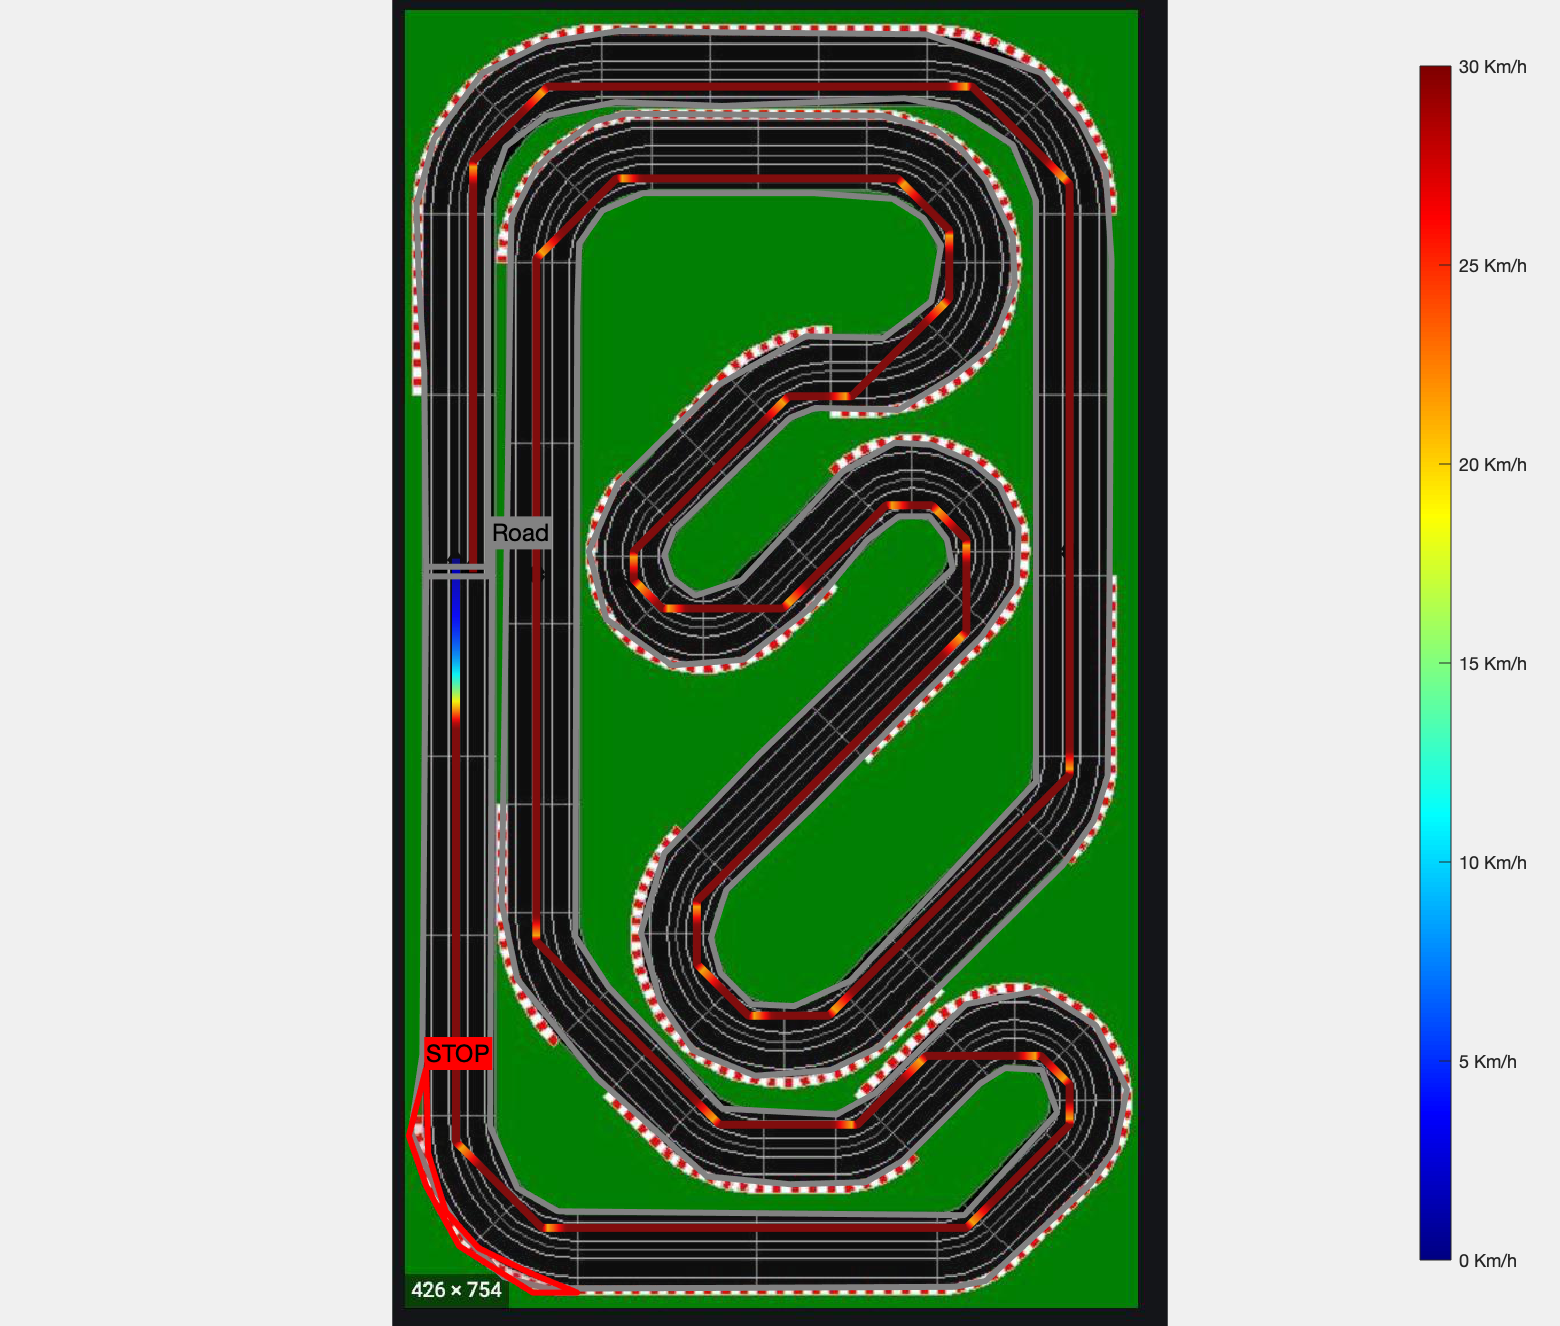
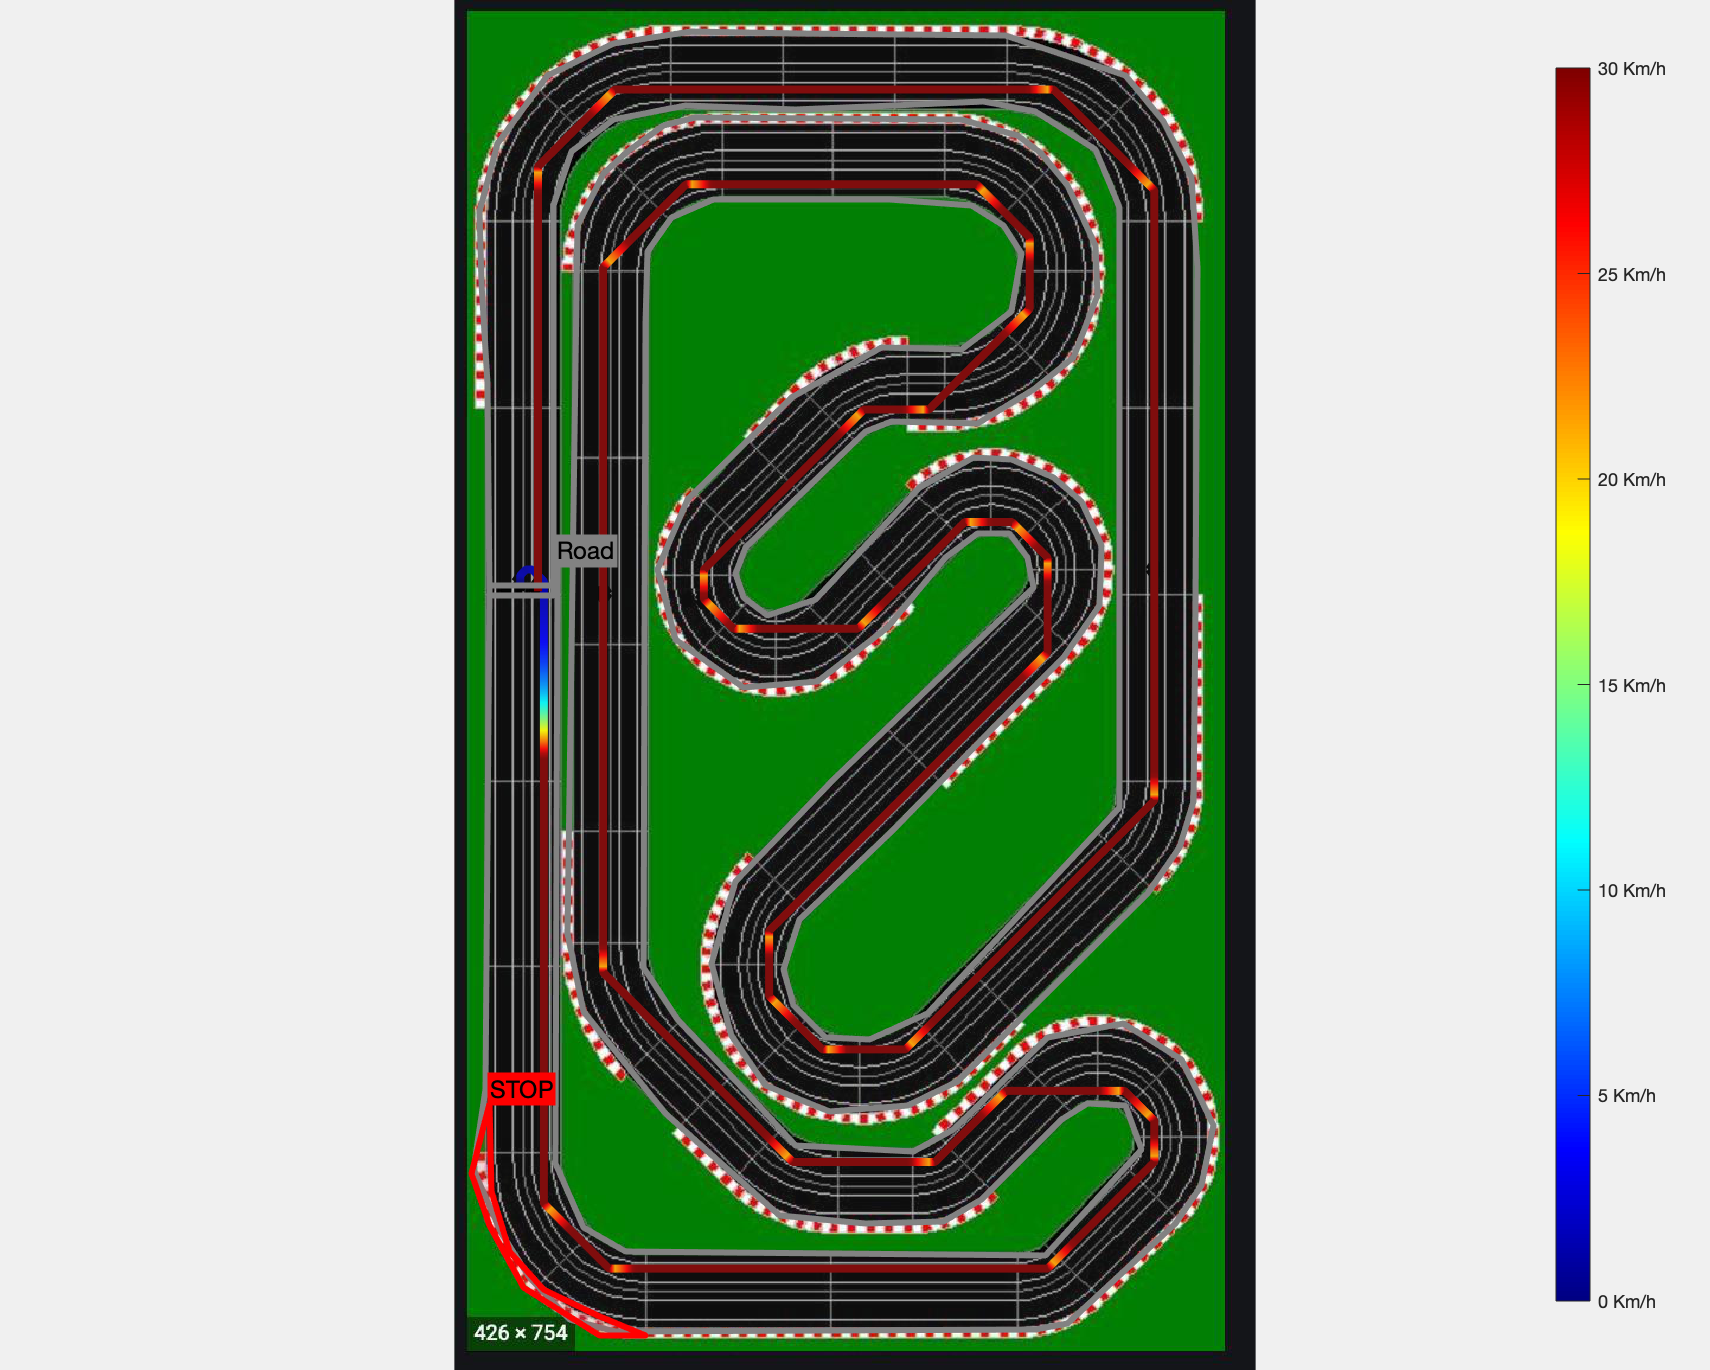
atencao ao angulo de chegada

diff --git a/src/path_planning.m b/src/path_planning.m
@@ -1,4 +1,4 @@
-function [sampled_path, checkpoints] = path_planning(path_points)
+function [sampled_path, checkpoints] = path_planning(path_points, path_orientation)
 % This function is responsabile to planning a path taking in account the
 % points {start, middle, stop}. It uses an dynamical weight dijkstra
 % algorithm. This version migth computes two different path in order to
@@ -12,13 +12,17 @@ function [sampled_path, checkpoints] = path_planning(path_points)
         m_occupancy m_safe  ...
         node_location heap directions ...
         debug_mode file_path
+    global path_points path_orientation
     
     % to be returned
     sampled_path = [];
     checkpoints = [];
     
     % a path need 2 points
-    if(size(path_points,1)<2); return; end
+    if(size(path_points,1)<2 && length(path_orientations)==2 )
+        disp("2 points with 2D coordinates and orientation are needed ")
+        return;
+    end
   
     if(isempty(occupancy_matrix)); load(string(file_path+"occupancy_matrix.mat"), 'occupancy_matrix'); end
     if(isempty(map_information)); map_information=load(string(file_path+"mapInformation.mat")); end
@@ -58,12 +62,14 @@ function [sampled_path, checkpoints] = path_planning(path_points)
 
     %% DYNAMIC DIJKSTRA - Path planning
     %https://media.neliti.com/media/publications/165891-EN-shortest-path-with-dynamic-weight-implem.pdf
-
+    
+    orientation = round_thetas(path_orientation*0+[90;0]); % initial and final orientation -- path_orientation
+    
     sub_path = [];  % last confirmed path but it migth not occured if the stop point has to be deleted 
     path_data = []; % accumulated path with start and stop points confirmed
     prev_node=[];   % information about the start point 
     prev_prev_node=[];  % information about the start point before
-    i=1;
+    i=4;
     valid_points = 1:size(points_grid,1);
     wb=waitbar(0,"Planning The Best Path");
     wb.Position(1)= wb.Position(1)-wb.Position(3);
@@ -73,9 +79,18 @@ function [sampled_path, checkpoints] = path_planning(path_points)
         idx_start = yx_2_idx_graph(start(2),start(1));
         stop = points_grid(valid_points(i+1),:);
         idx_stop = yx_2_idx_graph(stop(2),stop(1));
+        
+        % define the orientation for final point at the last path
+        orientation_path = orientation;  % auxilar vect of orentations (for each sub path)
+        if(i~=(length(valid_points)-1))
+            orientation_path(2) = "";
+        end
+        if(i~=1)
+            orientation_path(1) = "";
+        end
 
-        wb=waitbar((i-1)/length(valid_points),wb,"Planning sub Path "+num2str(i));
-        dijkstra(idx_start,idx_stop,prev_node,"time");
+        wb=waitbar((i-1)/(length(valid_points)-1),wb,"Planning sub Path "+num2str(i));
+        dijkstra(idx_start,idx_stop,prev_node,"time",orientation_path);
 
         if(isempty(node_location(idx_stop).cost))
             valid_points(i)=[];
@@ -202,7 +217,7 @@ function inspect_plots(sampled_path, run_points, checkpoints, path_data, n_point
 end
 
 %% Auxiliar functions to Path Planning
-function dijkstra(idx_start,idx_finish,init_node,loss_criterium)
+function dijkstra(idx_start,idx_finish,init_node,loss_criterium,orientation)
 % Dynamical Weight Dijkstra where it is computed a path between two pixels,
 % given priority two straight movement.
 % It writes in the variable node_location the reachable points, and the
@@ -215,7 +230,7 @@ function dijkstra(idx_start,idx_finish,init_node,loss_criterium)
 
     % Starting from the initial point
     if(isempty(init_node))
-        heap.InsertKey(new_node(0,0,idx_start,'',0,0))
+        heap.InsertKey(new_node(0,0,idx_start,"",0,0))
     else
         heap.InsertKey(init_node);
     end
@@ -233,9 +248,15 @@ function dijkstra(idx_start,idx_finish,init_node,loss_criterium)
         
         % Confirm if the end point was reached
         if(idx_finish==node.index)
-            %disp("Computed points: "+num2str(sum(in_heap==-1)))
-            delete(wb);
-            return
+            % final node
+            if(strlength(orientation(2))>0) 
+               % speacific orientation at the final point
+               in_heap(node.index) = 0;
+            else
+                %disp("Computed points: "+num2str(sum(in_heap==-1)))
+                delete(wb);
+                return
+            end
         end
         waitbar(1-norm(idx_graph_2_xy(node.index)-idx_graph_2_xy(idx_finish))/...
             (norm(idx_graph_2_xy(idx_start)-idx_graph_2_xy(idx_finish))),...
@@ -259,7 +280,25 @@ function dijkstra(idx_start,idx_finish,init_node,loss_criterium)
             
             % Define the new atempt
             node_aux = new_node(cost,distance,new_idx,direction,linear_velocity,angular_velocity);
-                
+            
+            %% Confirmation of the orientation
+            
+            % The first point has its speacific orientation
+            if ((node.index==idx_start) && (strlength(orientation(1))>0) && (direction ~= orientation(1)));
+                continue;
+            end
+            
+            % If the last point is reached, there is only one option to get there
+            if((idx_finish==new_idx))% && (direction == orientation(2)))                
+                disp("hey")
+%                 node_location(idx_finish)=node_aux;
+%                 in_heap(idx_finish) = -1;
+%                 delete(wb);
+%                 return
+            end
+            
+            %% Insert node at the heap
+            
             % The node is new to the heap
             if(in_heap(node_aux.index) == 0)
                 heap.InsertKey(node_aux);
@@ -387,6 +426,27 @@ function [linear_velocity,angular_velocity] = compute_velocity(start_dir,end_dir
     
     % weights traffic light ans stop zones
     linear_velocity = linear_velocity*(1-m_occupancy(1+gap_between_cells*(end_pos(2)-1),1+gap_between_cells*(end_pos(1)-1)));
+end
+
+function thetas_names = round_thetas(thetas)
+    global directions
+    
+    % avoid dimension errors
+    thetas = reshape(thetas,2,1);
+    
+    % normalize to one circle
+    thetas360 = wrapTo360(thetas);
+    
+    % round to the available dijkstra directions
+    rounded_thetas = rem(round(thetas360/45),8)+1;
+    
+    % map between the nomation of the dijkstra and the coordantion
+    % common knowledge
+    map_coord = [3 2 1 8 7 6 5 4];
+    
+    thetas_dijkstra = rem(find(map_coord'==rounded_thetas'),8);
+    
+    thetas_names = directions.names(thetas_dijkstra);
 end
 
 function s = new_node(c,d,i,p,lv,av)

diff --git a/src/main.m b/src/main.m
@@ -2,9 +2,10 @@ clear all;
 close all;
 clc;
 %%
-global debug_mode path_points
+global debug_mode path_points path_orientation
 
 debug_mode = true;
 create_map
+path_orientation = [-90;-90];
 
-[smoothed_path, checkpoints] = path_planning(path_points);
+[sampled_path, checkpoints] = path_planning(path_points, path_orientation);
